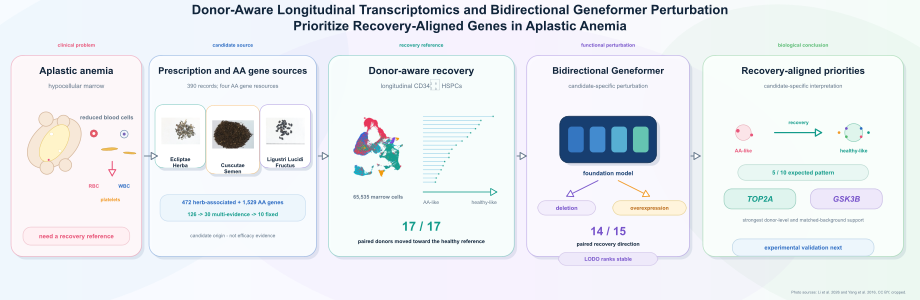
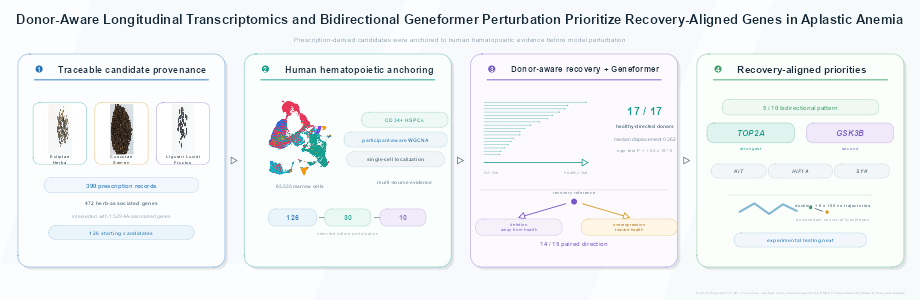
Align graphical abstract with final manuscript title

Changed region(s): [[0.0, 0.0, 1.0, 0.9], [0.8522, 0.96, 1.0, 0.99]]

diff --git a/scripts/validate_repository.py b/scripts/validate_repository.py
@@ -303,7 +303,7 @@ def validate_repository() -> int:
[8 lines of base64/hex data omitted]

diff --git a/reference_outputs/current_manuscript/GRAPHICAL_ABSTRACT_IMAGE_PROVENANCE.md b/reference_outputs/current_manuscript/GRAPHICAL_ABSTRACT_IMAGE_PROVENANCE.md
@@ -1,0 +1,21 @@
+# Graphical abstract image provenance
+
+The current 920 x 300-pixel graphical abstract uses the exact manuscript title:
+
+> Donor-Aware Longitudinal Transcriptomics and Bidirectional Geneformer Perturbation Prioritize Recovery-Aligned Genes in Aplastic Anemia
+
+The three medicinal materials are shown with photographic, rather than cartoon,
+representations. The Ecliptae Herba and Ligustri Lucidi Fructus source image was
+published under CC BY 4.0 in a Frontiers article (DOI:
+`10.3389/fphar.2026.1797126`). The Cuscutae Semen source image was published
+under CC BY 4.0 by Park et al. in *Plants* (DOI:
+`10.3390/plants9111410`). The displayed crops were adjusted only for layout and
+background consistency.
+
+Medicinal-material identity was checked against the Hong Kong Baptist
+University medicinal-material image database. Images from that database were
+not copied because the database marks them as all rights reserved.
+
+The graphical abstract is a visual summary of the manuscript's evidence flow.
+It is not an analytical input and does not imply clinical efficacy, direct
+target engagement, or experimental validation of the herb combination.

diff --git a/reference_outputs/current_manuscript/README.md b/reference_outputs/current_manuscript/README.md
@@ -1,8 +1,11 @@
 # Current-manuscript image references
 
-This directory contains the eight main figures and the graphical abstract used
-by the current Human Genomics submission package. Their filenames, byte sizes
-and SHA-256 values are recorded in `CURRENT_MANUSCRIPT_ASSET_CHECKSUMS.tsv`.
+This directory contains the eight main figures and the exact-title photographic
+graphical abstract used by the current Human Genomics submission package. Their
+filenames, byte sizes and SHA-256 values are recorded in
+`CURRENT_MANUSCRIPT_ASSET_CHECKSUMS.tsv`. The graphical-abstract image sources
+and reuse boundaries are documented in
+`GRAPHICAL_ABSTRACT_IMAGE_PROVENANCE.md`.
 
 These images are regression references, not analytical inputs. Figure 8 can be
 rerendered from the repository-distributed derived tables with
